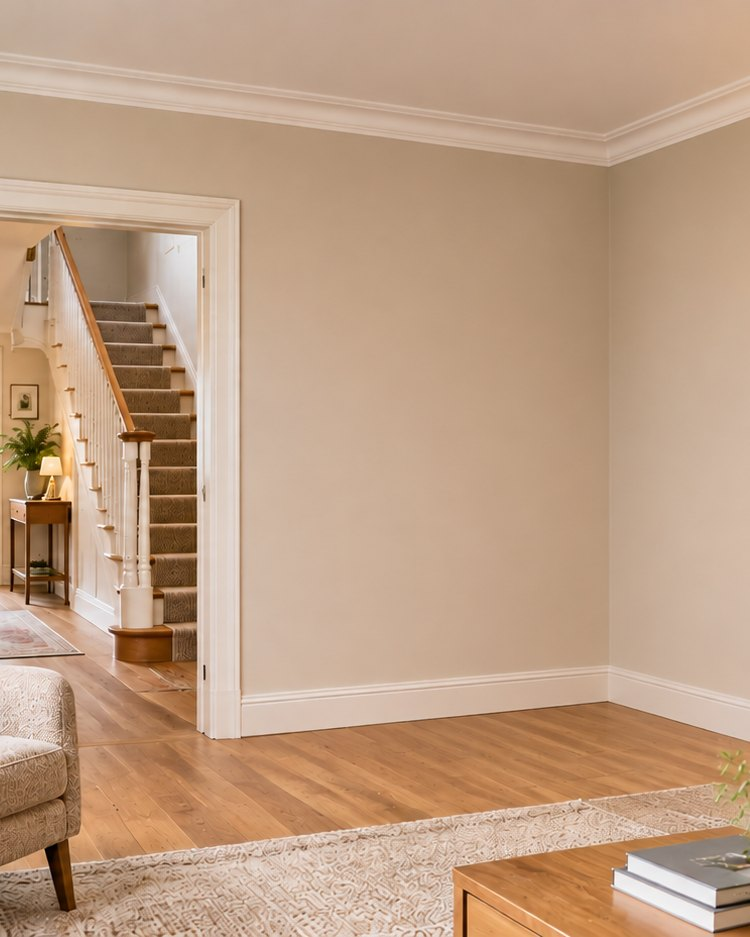
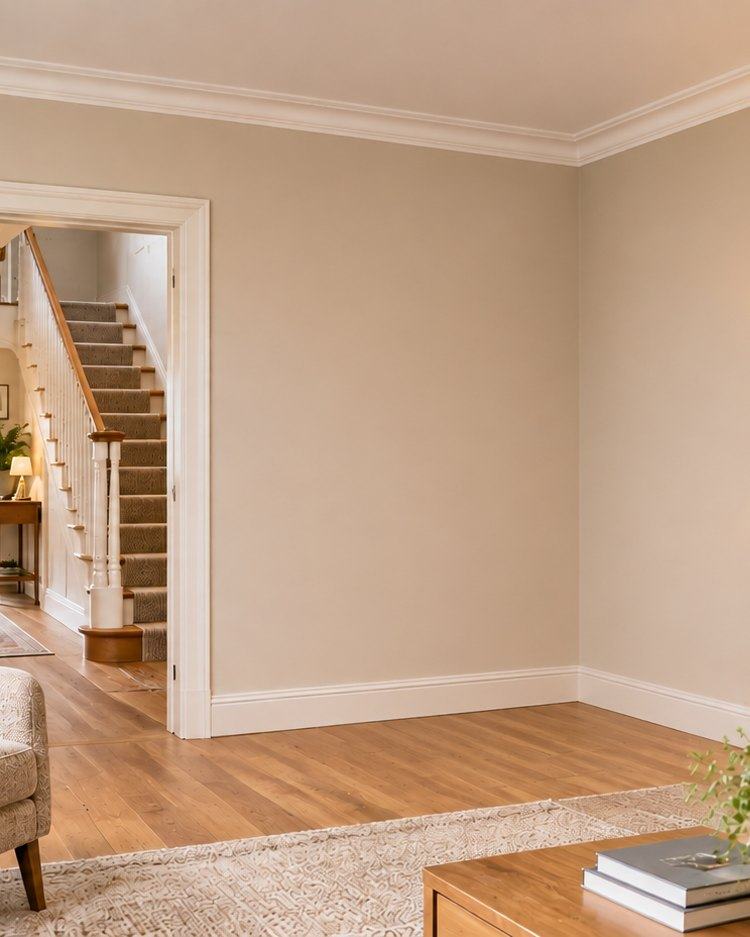
DISC-020 Phase 2B: phone hero crop x 480-1230 (lift clear of the edge, stair kept); DISC-020 page proof in the gate and the release checks; release-check counts follow the page registry (identity 32, header pages 34)
Claude-Session: https://claude.ai/code/session_01GxQWVRmKb8SP8W5bfByQaJ

diff --git a/atlas-tools/release/make-release-scripts.py b/atlas-tools/release/make-release-scripts.py
@@ -26,8 +26,10 @@ STANDARD = [
     # 27 since DISC-031 The Natural Swimming Garden (26 Oct 2026); production had 26 after the maker guides.
     # 28 since the DISC-033 The Hidden Flood Barrier release candidate (27 Oct 2026).
     # 29 since DISC-032 The Supper Club at Home (founder Phase 2 authorisation, 27 Oct 2026).
-    ("python3 atlas-tools/build-identity-stage1.py --check", "CHECK OK — 30 pages", "identity layer"),
+    # 31 on production main after DISC-015 (1 Nov 2026); 32 since DISC-020 Stay in the House You Love (4 Nov 2026).
+    ("python3 atlas-tools/build-identity-stage1.py --check", "CHECK OK — 32 pages", "identity layer"),
     ("python3 atlas-tools/prove-disc033-page.py", "DISC-033 PAGE · OK", "DISC-033 page proof F1-F10"),
+    ("python3 atlas-tools/prove-disc020-page.py", "DISC-020 PAGE · OK", "DISC-020 page proof S1-S17"),
     ("python3 atlas-tools/prove-global-header.py", "GLOBAL HEADER · OK", "global header guard G1-G9"),
     # 33 since the My Plot pill and Direction C (28 Oct 2026): the link to your-plot.html?myplot=1, the read-only
     # script (G6, G10) and the Discovery Library compass.
@@ -83,8 +85,9 @@ STANDARD = [
     ("python3 atlas-tools/prove-plotart-launch.py . --switches atlas-tools/release/plotart-launch-switches.json --manifest atlas-tools/release/plotart-launch-manifest.json",
      "PLOTART LAUNCH · OK — L1-L15 on 8 pages · applications open", "PlotArt launch L1-L14 (L14 published artist galleries): Virtual Gallery empty; five-pill navigation with Mobile Gallery (3 Nov 2026), no banner; Founding 25 and Living Gallery separate (applications open, founder activation 28 Oct 2026)"),
     # PlotArt in the PlotNua navigation and the A Home for Art links (proposed 27 Oct 2026)
-    # 32 header pages after DISC-015 The Underground Swimming Pool joined the header registry (1 Nov 2026; 31 after DISC-032, 30 after DISC-033).
-    ("python3 atlas-tools/prove-plotart-integration.py", "PLOTART INTEGRATION · OK — N1-N4 · 32 header pages", "PlotArt navigation and A Home for Art links N1-N4"),
+    # 32 header pages after DISC-015 The Underground Swimming Pool joined the header registry (1 Nov 2026; 31 after DISC-032, 30 after DISC-033);
+    # 33 on production main (4 Nov 2026); 34 since DISC-020 Stay in the House You Love (4 Nov 2026).
+    ("python3 atlas-tools/prove-plotart-integration.py", "PLOTART INTEGRATION · OK — N1-N4 · 34 header pages", "PlotArt navigation and A Home for Art links N1-N4"),
     ("python3 atlas-tools/prove-privacy-whatsapp.py", "PRIVACY WHATSAPP · OK", "privacy WhatsApp block exact (status printed)"),
     # GridNua limited launch (founder design approval 29 Oct 2026): two pages, noindex, follow; the
     # Interest Register stays closed; DISC-026 holds exactly one GridNua link and matches its latest freeze record.

diff --git a/atlas-tools/build-disc020-images.py b/atlas-tools/build-disc020-images.py
@@ -13,8 +13,8 @@ Both are ChatGPT (OpenAI) outputs. Neither carries a visible generator mark, so 
 
 ROUTINE EDITS (Governance 2.0, Rule 3), each recorded as a derivative bound to its unchanged master:
   * resizing (Lanczos) and encoding to WebP / JPEG;
-  * the phone hero copies are a 4:5 crop of the full height at x 450-1200: the stair through the doorway
-    (x ~480-650) and the whole lift (x 895-1168) stay in view; both crops use the same window, so the pair
+  * the phone hero copies are a 4:5 crop of the full height at x 480-1230 (Phase 2B; was 450-1200): the stair through the doorway
+    (x ~500-690) and the whole lift with its ceiling bulkhead (x 895-1186) stay in view, the lift 44 px clear of the edge; both crops use the same window, so the pair
     stays aligned to the pixel;
   * the Library card copies and the 1200 x 630 social card are taken from the POSSIBLE.
 
@@ -41,7 +41,7 @@ MASTERS = {   # role -> (path, sha256, what)
                  "DISC-020 hero POSSIBLE: the same living room with a glazed residential lift in slim bronze framing "
                  "standing against the back wall and rising through the ceiling"),
 }
-MOBILE_X0, MOBILE_W = 450, 750        # 4:5 phone crop of the 937 px height: stair and lift both in view
+MOBILE_X0, MOBILE_W = 480, 750        # 4:5 phone crop of the 937 px height: stair and lift both in view, lift clear of the edge (Phase 2B)
 DESK = (768, 1024, 1376, 1678)
 
 

diff --git a/governance/DISC-020-STAY-IN-THE-HOUSE-BUILD-2026-11-04.md b/governance/DISC-020-STAY-IN-THE-HOUSE-BUILD-2026-11-04.md
@@ -27,7 +27,7 @@
 **Routine edits only** (Rule 3). Every web copy was made by `atlas-tools/build-disc020-images.py` and is recorded as a derivative of its master. The edits are:
 - Lanczos resizes;
 - WebP and JPEG encodes;
-- one 4:5 phone crop at x 450–1200, applied identically to both images, which keeps the stair and the whole lift in view;
+- one 4:5 phone crop at x 480–1230, applied identically to both images, which keeps the stair and the whole lift in view with the lift clear of the edge (Phase 2B; the first build used 450–1200);
 - two Library card WebPs;
 - a 1200 × 630 social card from the POSSIBLE.
 
